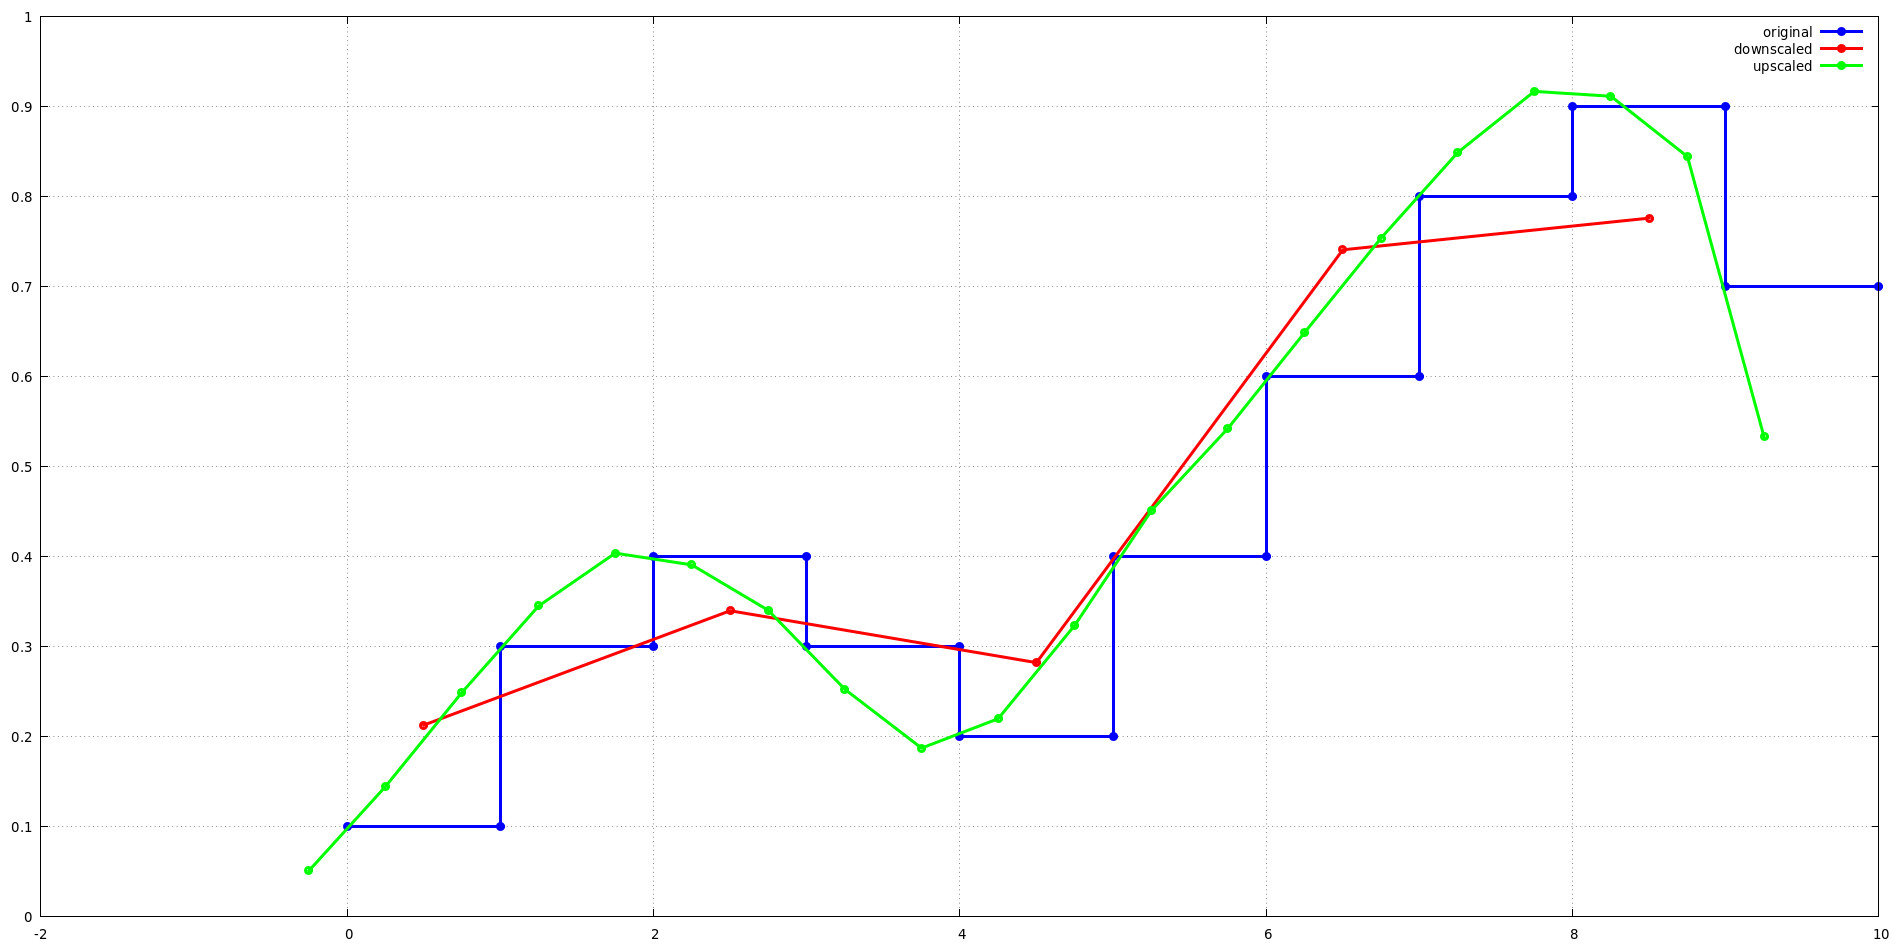
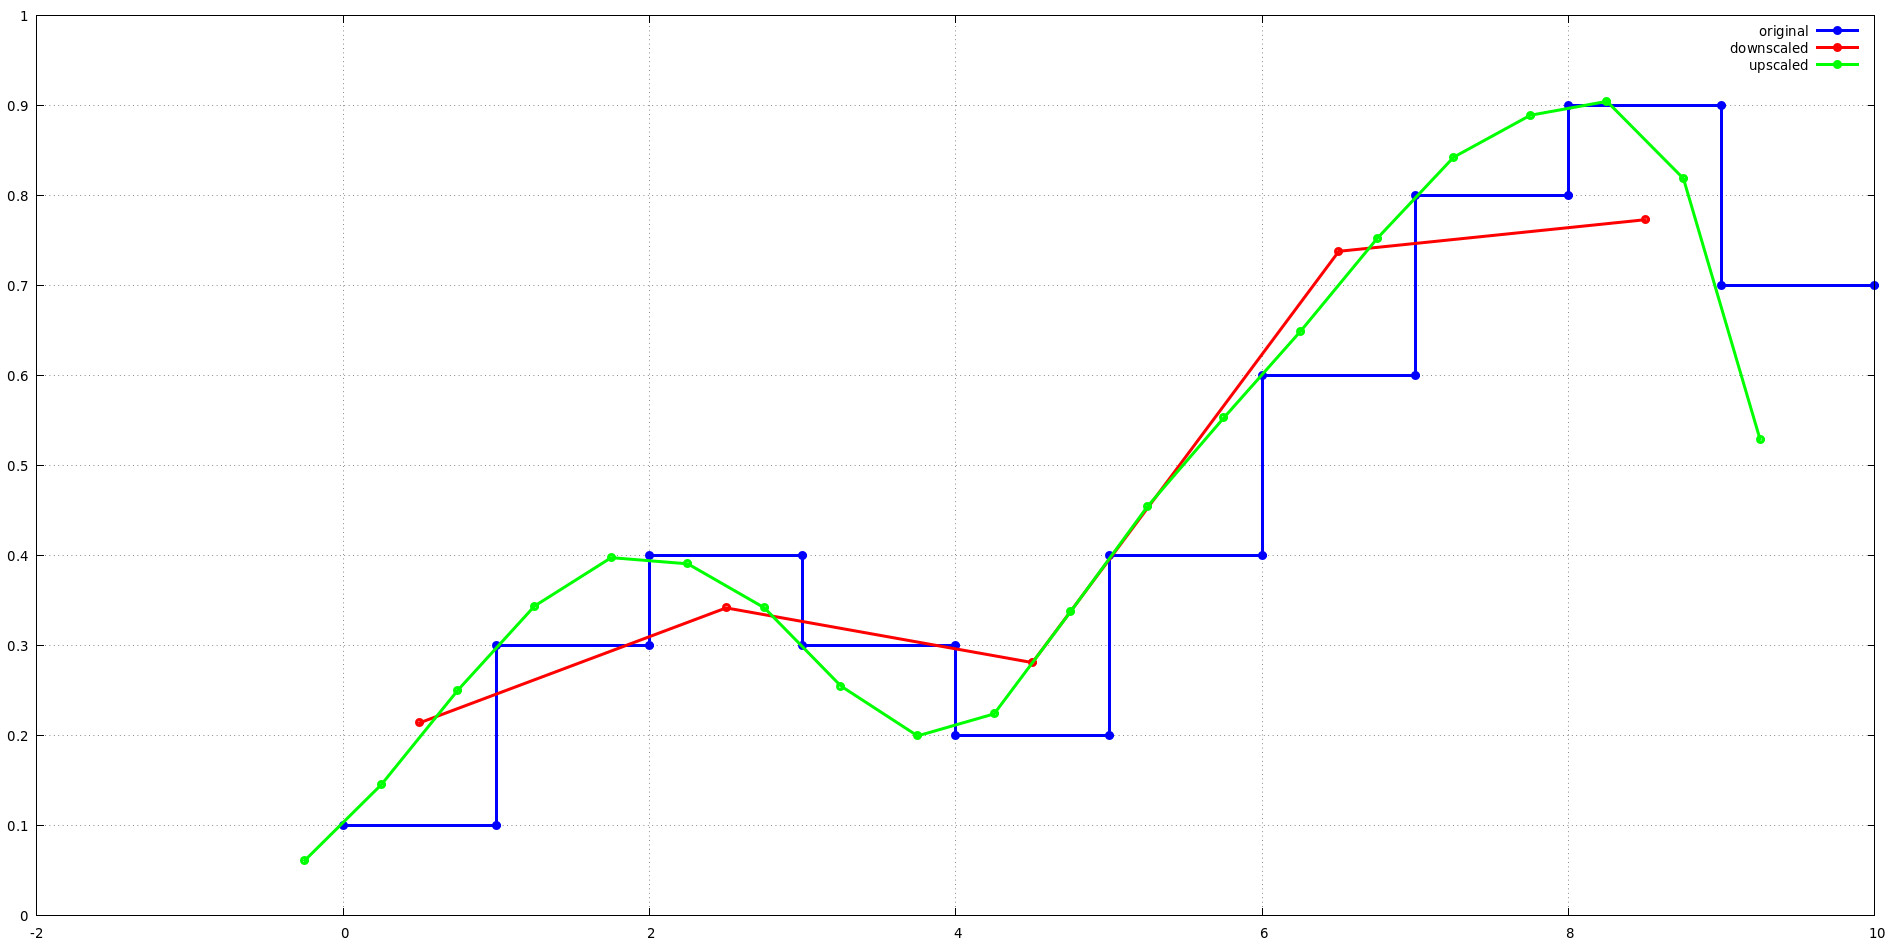
fix interpolation summation and fix readme typos

diff --git a/lanczos-test.c b/lanczos-test.c
@@ -105,8 +105,7 @@ int main(int argc, char** argv)
 		fprintf(fs1, "%lf %lf\n", (double) (i + 1), s1);
 	}
 
-	// downscale 2x
-	printf("downscale 2x\n");
+	// downsample
 	int    j;
 	int    n2 = 5;
 	int    fs = n1/n2;
@@ -118,6 +117,7 @@ int main(int argc, char** argv)
 	double w;
 	double jd;
 	double step = ((double) n1)/((double) n2);
+	printf("downsample n1=%i, n2=%i\n", n1, n2);
 	for(j = 0; j < n2; ++j)
 	{
 		jd = (double) j;
@@ -125,7 +125,7 @@ int main(int argc, char** argv)
 		w  = 0.0;
 		s2 = 0.0;
 		printf("j=%i, x=%lf\n", j, x);
-		for(i = -(fs*a) + 1; i < (fs*a); ++i)
+		for(i = -(fs*a) + 1; i <= (fs*a); ++i)
 		{
 			l   = L((i - x + floor(x))/fsd, a);
 			s1  = S1(floor(x) + i);
@@ -139,12 +139,13 @@ int main(int argc, char** argv)
 		printf("s2=%lf, w=%lf\n", s2/w, w);
 		fprintf(fs2d, "%lf %lf %lf\n", x, s2/w, w);
 	}
+	printf("\n");
 
-	// upscale 2x
-	printf("\nupscale 2x\n");
+	// upsample
 	n2   = 20;
 	a    = 3;
 	step = ((double) n1)/((double) n2);
+	printf("upsample n1=%i, n2=%i\n", n1, n2);
 	for(j = 0; j < n2; ++j)
 	{
 		jd = (double) j;
@@ -152,7 +153,7 @@ int main(int argc, char** argv)
 		w  = 0.0;
 		s2 = 0.0;
 		printf("j=%i, x=%lf\n", j, x);
-		for(i = -a + 1; i < a; ++i)
+		for(i = -a + 1; i <= a; ++i)
 		{
 			l   = L(i - x + floor(x), a);
 			s1  = S1(floor(x) + i);

diff --git a/readme.md b/readme.md
@@ -3,12 +3,12 @@ Lanczos Resampling
 
 Lanczos (pronounced Lanchos) resampling is similar to the
 well known nearest neighbor and bilinear interpolation
-techniques. Lanczos resampling method features improved
-detail preservation and minimal generation of aliasing
-artifacts. The main drawbacks of Lanczos resampling are
-increased computation costs and the potential for "ringing"
-artifacts which are most visible around sharp edges due to
-the negative lobes in the interpolation kernel. Lanczos
+techniques. Lanczos resampling features improved detail
+preservation and minimal generation of aliasing artifacts.
+The main drawbacks of Lanczos resampling are increased
+computation costs and the potential for "ringing" artifacts
+which are most visible around sharp edges due to the
+negative lobes in the interpolation kernel. Lanczos
 resampling may be used to perform operations such as scaling
 and rotation by resampling the input signal.
 
@@ -28,12 +28,10 @@ Where the normalized sinc function is given by.
 ![Lanczos3 Kernel](lanczos3.jpg?raw=true "Lanczos3 Kernel")
 
 The support size (a) corresponds to the number of lobes
-kept in the interpolation function window. Note that the
-support size may be referred to as the filter size or order
-in other derivations. According to Jim Blinn, the Lanczos
-(a = 3) kernel "keeps low frequencies and rejects high
-frequencies better than any (achievable) filter we've seen
-so far."
+kept in the interpolation function window. According to Jim
+Blinn, the Lanczos (a = 3) kernel "keeps low frequencies and
+rejects high frequencies better than any (achievable) filter
+we've seen so far."
 
 Lanczos Interpolation
 ---------------------
@@ -47,7 +45,7 @@ between indices. The input signal s1() is zero outside of
 the signal or image bounds. In contrast, the sampled signal
 s2() is defined continuously.
 
-	s1(x) = s1(floor(x)) : floor(x) = [0, n1]
+	s1(x) = s1(floor(x)) : floor(x) = [0, n1)
 	      = 0.0          : otherwise
 
 	s2(x) = (1/w(x))*
@@ -56,7 +54,7 @@ s2() is defined continuously.
 	            L(i - x + floor(x),a))
 
 	s1(x,y) = s1(floor(x), floor(y)) :
-	          (floor(x), floor(y)) = ([0, w], [0,h))
+	          (floor(x), floor(y)) = ([0, w1), [0,h1))
 	        = 0.0                    : otherwise
 
 	s2(x,y) = (1/w(x,y))*
@@ -88,17 +86,17 @@ unsigned bytes of [0,255].
 When resampling a signal from n1 samples to n2 samples the
 following sample positions are used. The index j is used to
 represent the samples from the sampled signal s2(). The term
-(j + 0.5) is the center of a sample in s2(). The step size
-scales a point in s2() to a point in s1(). The final -0.5
-term in x is a phase shift that causes the Lanczos
-coefficient samples to be offset.
+(j + 0.5) is the center of a sample in s2(). The step scales
+a point in s2() to a point in s1(). The final -0.5 term in x
+is a phase shift that causes the Lanczos coefficient samples
+to be offset.
 
 	step = n1/n2
 	j    = [0..n2)
 	x    = (j + 0.5)*step - 0.5
 
-Upscaling and Downscaling
--------------------------
+Upsampling and Downsampling
+---------------------------
 
 We often want to change from one sampling rate to another.
 The process of representing a signal with more samples is
@@ -109,7 +107,7 @@ changes. However, when downsampling, an additional step must
 be performed to adjust the filter scale (fs). This is
 equivalent to applying a low pass filter to the input signal
 to filter high frequency components. The Lanczos
-interpolation equations may be adjusted for downscaling by
+interpolation equations may be adjusted for downsampling by
 an integer factor as follows.
 
 	fs = n1/n2
@@ -126,49 +124,53 @@ an integer factor as follows.
 	                  L((j - x + floor(x))/fs,a)*
 	                  L((i - y + floor(y))/fs,a)))
 
-When upscaling by a power-of-two, the Lanczos kernel cycles
+When upsampling by a power-of-two, the Lanczos kernel cycles
 between 2^level sets of values. For example, consider the
-first 4 outputs of the lanzcos-test upscale example. Notice
-that the outputs for L() repeats for j={0,2} and j={1,3}.
+first 4 outputs of the lanzcos-test upsample example. Notice
+that the outputs for L() repeat for j={0,2} and j={1,3}.
 
-	upscale 2x
+	upsample n1=10, n2=20
 	j=0, x=-0.250000
 	i=-2, L(-2.750000)=0.007356, S1(-3.000000)=0.000000
 	i=-1, L(-1.750000)=-0.067791, S1(-2.000000)=0.000000
 	i=0, L(-0.750000)=0.270190, S1(-1.000000)=0.000000
 	i=1, L(0.250000)=0.890067, S1(0.000000)=0.100000
 	i=2, L(1.250000)=-0.132871, S1(1.000000)=0.300000
-	s2=0.050825, w=0.966950
+	i=3, L(2.250000)=0.030021, S1(2.000000)=0.400000
+	s2=0.061340, w=0.996972
 	j=1, x=0.250000
 	i=-2, L(-2.250000)=0.030021, S1(-2.000000)=0.000000
 	i=-1, L(-1.250000)=-0.132871, S1(-1.000000)=0.000000
 	i=0, L(-0.250000)=0.890067, S1(0.000000)=0.100000
 	i=1, L(0.750000)=0.270190, S1(1.000000)=0.300000
 	i=2, L(1.750000)=-0.067791, S1(2.000000)=0.400000
-	s2=0.144447, w=0.989616
+	i=3, L(2.750000)=0.007356, S1(3.000000)=0.300000
+	s2=0.145595, w=0.996972
 	j=2, x=0.750000
 	i=-2, L(-2.750000)=0.007356, S1(-2.000000)=0.000000
 	i=-1, L(-1.750000)=-0.067791, S1(-1.000000)=0.000000
 	i=0, L(-0.750000)=0.270190, S1(0.000000)=0.100000
 	i=1, L(0.250000)=0.890067, S1(1.000000)=0.300000
 	i=2, L(1.250000)=-0.132871, S1(2.000000)=0.400000
-	s2=0.249124, w=0.966950
+	i=3, L(2.250000)=0.030021, S1(3.000000)=0.300000
+	s2=0.250656, w=0.996972
 	j=3, x=1.250000
 	i=-2, L(-2.250000)=0.030021, S1(-1.000000)=0.000000
 	i=-1, L(-1.250000)=-0.132871, S1(0.000000)=0.100000
 	i=0, L(-0.250000)=0.890067, S1(1.000000)=0.300000
 	i=1, L(0.750000)=0.270190, S1(2.000000)=0.400000
 	i=2, L(1.750000)=-0.067791, S1(3.000000)=0.300000
-	s2=0.345055, w=0.989616
+	i=3, L(2.750000)=0.007356, S1(4.000000)=0.200000
+	s2=0.343984, w=0.996972
 
-When downscaling by a power-of-two, the Lanczos kernel
+When downsampling by a power-of-two, the Lanczos kernel
 becomes independent of x since (x - floor(x)) becomes a
 constant which matches the phase shift. For example,
 consider the first 2 outputs of the lanzcos-test
-downscale example. Notice that the the outputs of L()
-repeats for each j.
+downsample example. Notice that the outputs of L()
+repeat for each j.
 
-	downscale 2x
+	downsample n1=10, n2=5
 	j=0, x=0.500000
 	i=-5, L(-5.500000)=0.007356, S1(-5.000000)=0.000000
 	i=-4, L(-4.500000)=0.030021, S1(-4.000000)=0.000000
@@ -181,7 +183,8 @@ repeats for each j.
 	i=3, L(2.500000)=-0.132871, S1(3.000000)=0.300000
 	i=4, L(3.500000)=-0.067791, S1(4.000000)=0.200000
 	i=5, L(4.500000)=0.030021, S1(5.000000)=0.400000
-	s2=0.212773, w=1.986587
+	i=6, L(5.500000)=0.007356, S1(6.000000)=0.600000
+	s2=0.214201, w=1.993943
 	j=1, x=2.500000
 	i=-5, L(-5.500000)=0.007356, S1(-3.000000)=0.000000
 	i=-4, L(-4.500000)=0.030021, S1(-2.000000)=0.000000
@@ -194,7 +197,8 @@ repeats for each j.
 	i=3, L(2.500000)=-0.132871, S1(5.000000)=0.400000
 	i=4, L(3.500000)=-0.067791, S1(6.000000)=0.600000
 	i=5, L(4.500000)=0.030021, S1(7.000000)=0.800000
-	s2=0.339803, w=1.986587
+	i=6, L(5.500000)=0.007356, S1(8.000000)=0.900000
+	s2=0.341870, w=1.993943
 
 As a result, the Lanczos kernel may be precomputed for these
 cases to eliminate the expensive sinc function computation
